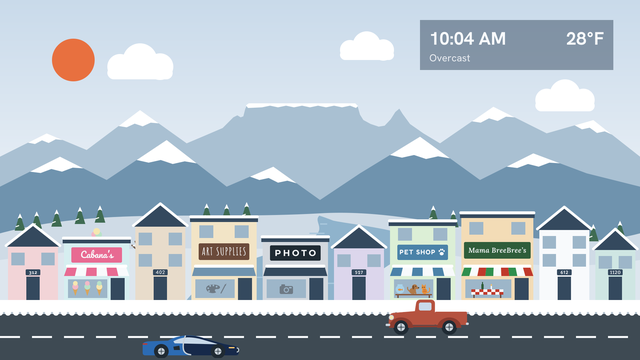
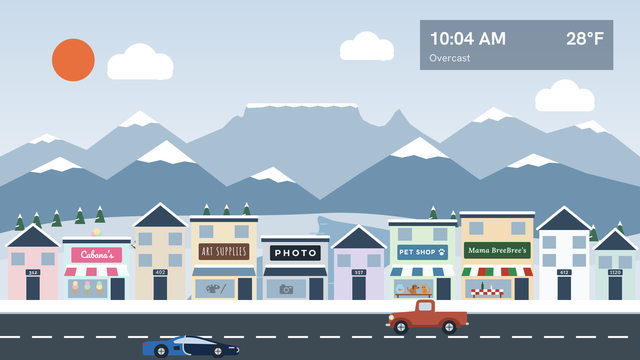
Make the winter sidewalk a plain rectangle of snow
The row of snowbank bumps along the curb is removed, so in winter the
sidewalk is one flat snow-colored rectangle, the same shape as the
sidewalk in other seasons.

Claude-Session: https://claude.ai/code/session_01F1XyeJbkdn1kDtDDVeB88k

Changed region(s): [[0.0, 0.8556, 0.625, 0.8861], [0.7188, 0.8556, 1.0, 0.8861]]

diff --git a/tools/generate_images.py b/tools/generate_images.py
@@ -245,10 +245,6 @@ def street(p, season):
     s = (f'<rect x="0" y="900" width="1920" height="36" fill="{walk}"/><rect x="0" y="936" width="1920" height="6" fill="{p["curb"]}"/>'
          f'<rect x="0" y="942" width="1920" height="138" fill="{p["road"]}"/>'
          f'<path d="M0,1011 L1920,1011" stroke="{p["roadLine"]}" stroke-width="6" stroke-dasharray="60 36" fill="none"/>')
-    if season == "winter":
-        # A bank of plowed snow along the curb. The bumps are 24 px apart, which
-        # divides 1920 evenly, so the half bumps at x=0 and x=1920 join up.
-        s += "".join(f'<circle cx="{x}" cy="938" r="9" fill="{p["snow"]}"/>' for x in range(0, 1921, 24))
     if season == "fall":
         # Fallen leaves on the sidewalk
         rnd = random.Random(11)

diff --git a/AGENTS.md b/AGENTS.md
@@ -49,7 +49,7 @@ These apply to code, comments, commit messages, README.md, and this file.
 - Every scenery layer function takes `(p, season)`. Seasonal details (snow on roofs, pumpkins, flower boxes) use helpers such as `snow_flat()`, `snow_ridge()`, `pumpkins()`, and `flower_box()`, which return an empty string in other seasons.
 - `SEASONAL` in the generator and `m.seasonalLayers` in `components/MainScene.brs` must list the same layers and seasons. Otherwise the scene asks for an image that does not exist.
 - While snow is falling, `applyScene()` uses the winter images in any season. Falling leaves, petals, and fireflies are hidden while rain or snow is falling.
-- The winter snowbank bumps along the curb are 24 pixels apart, which divides 1920 evenly. Keep any repeating pattern on the street at a spacing that divides 1920.
+- In winter the sidewalk is a plain snow-colored rectangle. Keep any repeating pattern on the street at a spacing that divides 1920, so it joins up at the tile edges.
 
 ## Scene behavior to keep consistent
 

diff --git a/README.md b/README.md
@@ -56,7 +56,7 @@ These images are drawn by `tools/generate_images.py` from the same artwork the s
   | Spring | March 20 to June 20 | Light green hills, trees with pink blossoms, flower boxes under house windows, falling petals |
   | Summer | June 21 to September 21 | Green hills and trees, fireflies at night |
   | Fall | September 22 to December 20 | Gold hills, orange and red trees, pumpkins by doors, leaves on the sidewalk, falling leaves |
-  | Winter | December 21 to March 19 | Snow on the hills, mountains, roofs, sidewalk, and pine trees, bare trees, a snowbank along the curb, a frozen river |
+  | Winter | December 21 to March 19 | Snow on the hills, mountains, roofs, sidewalk, and pine trees, bare trees, a frozen river |
 
   The dates are close to the equinoxes and solstices, which move by a day or so from year to year. Pine trees stay green all year.
 - Weather effects from the current weather:
